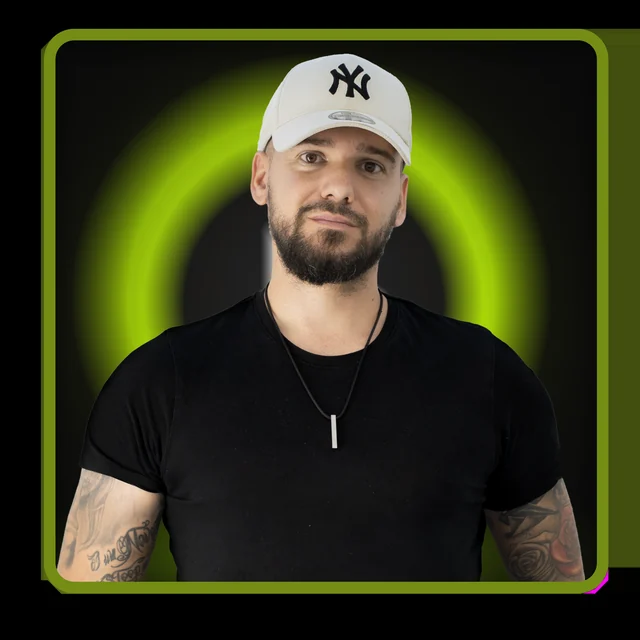
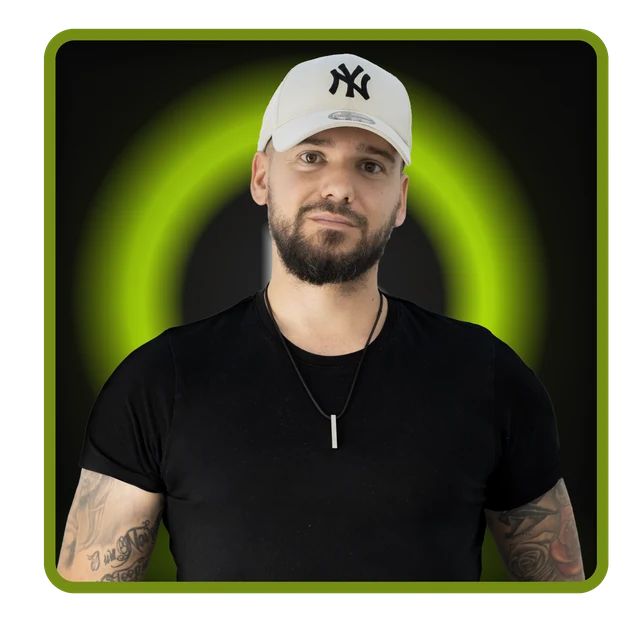
Alapito foto atlatszo hatterrel + fomenu atrendezes (Markak/Blog le)

Changed region(s): [[0.0, 0.0, 1.0, 1.0]]

diff --git a/components/layout/site-header.tsx b/components/layout/site-header.tsx
@@ -6,12 +6,10 @@ import { MobileNavMenu } from "@/components/layout/mobile-nav-menu";
 
 const LINKS: { label: string; href: string; bold?: boolean }[] = [
   { label: "Alkotók", href: "/creators", bold: true },
-  { label: "Márkák", href: "/#markak" },
-  { label: "Hogyan működik", href: "/#hogyan" },
   { label: "Kampányok", href: "/ads", bold: true },
-  { label: "Aktuális fejlesztések", href: "/status" },
-  { label: "Blog", href: "/blog" },
+  { label: "Hogyan működik", href: "/#hogyan" },
   { label: "Rólunk", href: "/rolunk" },
+  { label: "Aktuális fejlesztések", href: "/status" },
   { label: "Kapcsolat", href: "/kapcsolat" },
 ];
 